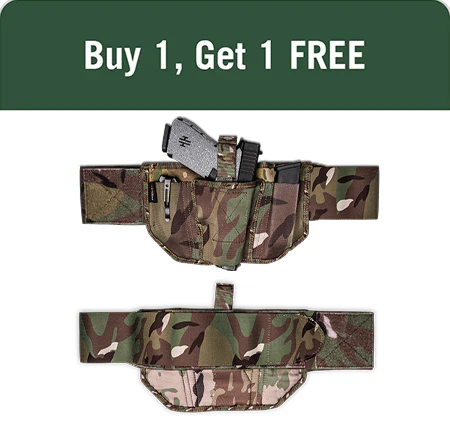
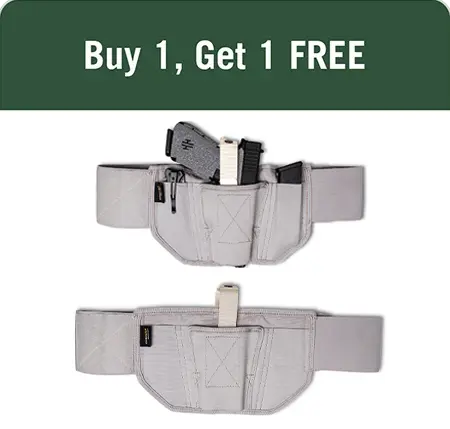
updated content

Changed region(s): [[0.1556, 0.2727, 0.8711, 0.9697]]

diff --git a/src/components/Content/Content.tsx b/src/components/Content/Content.tsx
@@ -116,7 +116,7 @@ const Content: React.FC = () => {
           </div>
           <div className="w-full md:w-[82%] mx-auto max-w-[1120px] py-5 px-0">
             <Image
-              src="/contentimages/VNSH-CamoHolster-BlockImages-V2-Desktop.webp"
+              src="/contentimages/VNSH-GrayHolster-BlockImages-V2-Desktop.webp"
               alt="Laser Strike System"
               className="w-full h-auto"
               width={1120}
@@ -241,8 +241,8 @@ const Content: React.FC = () => {
           </div>
           <div className="w-full md:w-[80%] mx-auto max-w-[1120px] px-0 md:px-0">
             <Image
-              src="/contentimages/CamoImage2-Desktop.webp"
-              alt="Camo Holster"
+              src="/contentimages/GrayImage2-Desktop.webp"
+              alt="Gray Holster"
               className="w-full h-auto"
               width={1120}
               height={600}
@@ -323,8 +323,8 @@ const Content: React.FC = () => {
             </div>
             <div className="w-full md:w-[80%] mx-auto max-w-[1120px] px-0 md:px-0 md:py-5">
               <Image
-                src="/contentimages/CamoImage1-Desktop.webp"
-                alt="VNSH Camo Holster"
+                src="/contentimages/GrayImage1-Desktop.webp"
+                alt="VNSH Gray Holster"
                 className="w-full h-auto"
                 width={1120}
                 height={600}

diff --git a/src/components/PackageSelection/PackageSelection.tsx b/src/components/PackageSelection/PackageSelection.tsx
@@ -35,7 +35,7 @@ const PackageSelection: React.FC = () => {
             </div>
             <div className="mt-auto">
               <a
-                href={getCheckoutUrl('https://secure.vnsh.com/vnshcamobogogbbhy/starter-checkout')}
+                href={getCheckoutUrl('https://secure.vnsh.com/vnshgraybogogbbhy/starter-checkout')}
                 target="_self"
                 rel="noopener noreferrer"
                 className="block w-full"
@@ -121,7 +121,7 @@ const PackageSelection: React.FC = () => {
 
             <div className="mt-auto">
               <a
-                href={getCheckoutUrl('https://secure.vnsh.com/vnshcamobogogbbhy/advanced-checkout')}
+                href={getCheckoutUrl('https://secure.vnsh.com/vnshgraybogogbbhy/advanced-checkout')}
                 target="_self"
                 rel="noopener noreferrer"
                 className="block w-full"
@@ -185,7 +185,7 @@ const PackageSelection: React.FC = () => {
             </div>
             <div className="mt-auto">
               <a
-                href={getCheckoutUrl('https://secure.vnsh.com/vnshcamobogogbbhy/enhanced-checkout')}
+                href={getCheckoutUrl('https://secure.vnsh.com/vnshgraybogogbbhy/enhanced-checkout')}
                 target="_self"
                 rel="noopener noreferrer"
                 className="block w-full"

diff --git a/src/components/Slideshow/Slideshow.tsx b/src/components/Slideshow/Slideshow.tsx
@@ -10,24 +10,24 @@ const Slideshow: React.FC = () => {
 
   const slides = [
     {
-      image: '/contentimages/VNSH_Camo_Holster_Top_Hero.webp',
+      image: '/contentimages/VNSH_Gray_Holster_Top_Hero.webp',
       alt: 'Hero slide',
     },
     {
-      image: '/contentimages/VNSH_Camo_Holster_Top_Hero2.webp',
-      alt: 'Camo Holster Image 2',
+      image: '/contentimages/VNSH_Gray_Holster_Top_Hero2.webp',
+      alt: 'Gray Holster Image 2',
     },
     {
-      image: '/contentimages/VNSH_Camo_Holster_Top_Hero3.webp',
-      alt: 'Camo Holster Image 3',
+      image: '/contentimages/VNSH_Gray_Holster_Top_Hero5.webp',
+      alt: 'Gray Holster Image 3',
     },
     {
-      image: '/contentimages/VNSH_Camo_Holster_Top_Hero4.webp',
-      alt: 'Camo Holster Image 4',
+      image: '/contentimages/VNSH_Gray_Holster_Top_Hero4.webp',
+      alt: 'Gray Holster Image 4',
     },
     {
-      image: '/contentimages/VNSH_Camo_Holster_Top_Hero5.webp',
-      alt: 'Camo Holster Image 5',
+      image: '/contentimages/VNSH_Gray_Holster_Top_Hero3.webp',
+      alt: 'Gray Holster Image 5',
     },
   ];
 
